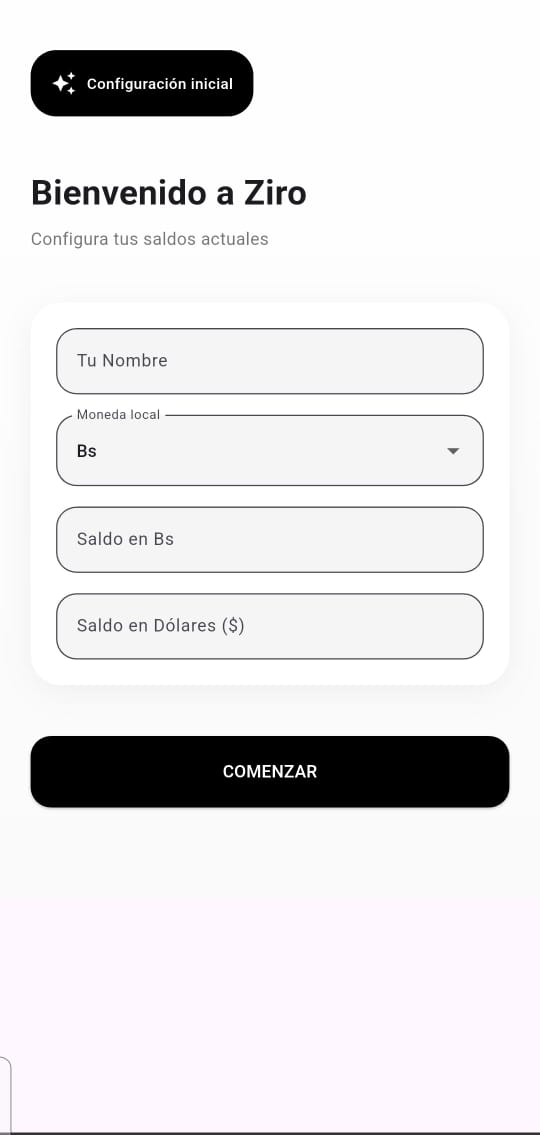
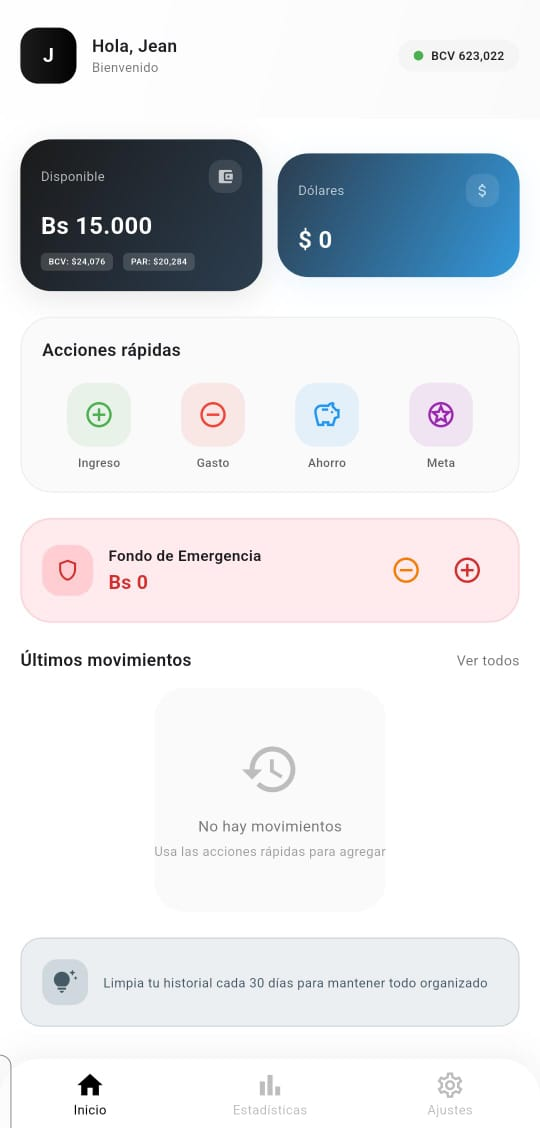
Corregir README: usar .jpeg en capturas

diff --git a/README.md b/README.md
@@ -14,29 +14,29 @@ Ziro es una aplicación móvil de finanzas personales desarrollada en **Flutter*
   <table>
     <tr>
       <td align="center">
-        <img src="screenshots/home.png" width="250" alt="Pantalla de inicio">
+        <img src="screenshots/entray.jpeg" width="250" alt="Pantalla de inicio">
         <br><b>Pantalla de inicio</b>
       </td>
       <td align="center">
-        <img src="screenshots/stats.png" width="250" alt="Estadísticas mensuales">
+        <img src="screenshots/stats.jpeg" width="250" alt="Estadísticas mensuales">
         <br><b>Estadísticas mensuales</b>
       </td>
       <td align="center">
-        <img src="screenshots/entry.png" width="250" alt="Nuevo registro">
+        <img src="screenshots/entry.jpeg" width="250" alt="Nuevo registro">
         <br><b>Nuevo registro</b>
       </td>
     </tr>
     <tr>
       <td align="center">
-        <img src="screenshots/goals.png" width="250" alt="Metas de ahorro">
+        <img src="screenshots/goals.jpeg" width="250" alt="Metas de ahorro">
         <br><b>Metas de ahorro</b>
       </td>
       <td align="center">
-        <img src="screenshots/emergency.png" width="250" alt="Fondo de emergencia">
+        <img src="screenshots/emergency.jpeg" width="250" alt="Fondo de emergencia">
         <br><b>Fondo de emergencia</b>
       </td>
       <td align="center">
-        <img src="screenshots/settings.png" width="250" alt="Pantalla de ajustes">
+        <img src="screenshots/settings.jpeg" width="250" alt="Pantalla de ajustes">
         <br><b>Pantalla de ajustes</b>
       </td>
     </tr>
@@ -70,7 +70,6 @@ Ziro es una aplicación móvil de finanzas personales desarrollada en **Flutter*
 ### 🛡️ Fondo de Emergencia
 - Agregar desde saldo o dinero externo
 - Retirar solo en situaciones de EMERGENCIA REAL
-- Opción de limpiar el fondo
 
 ### 📈 Estadísticas Mensuales
 - Ingresos totales del mes